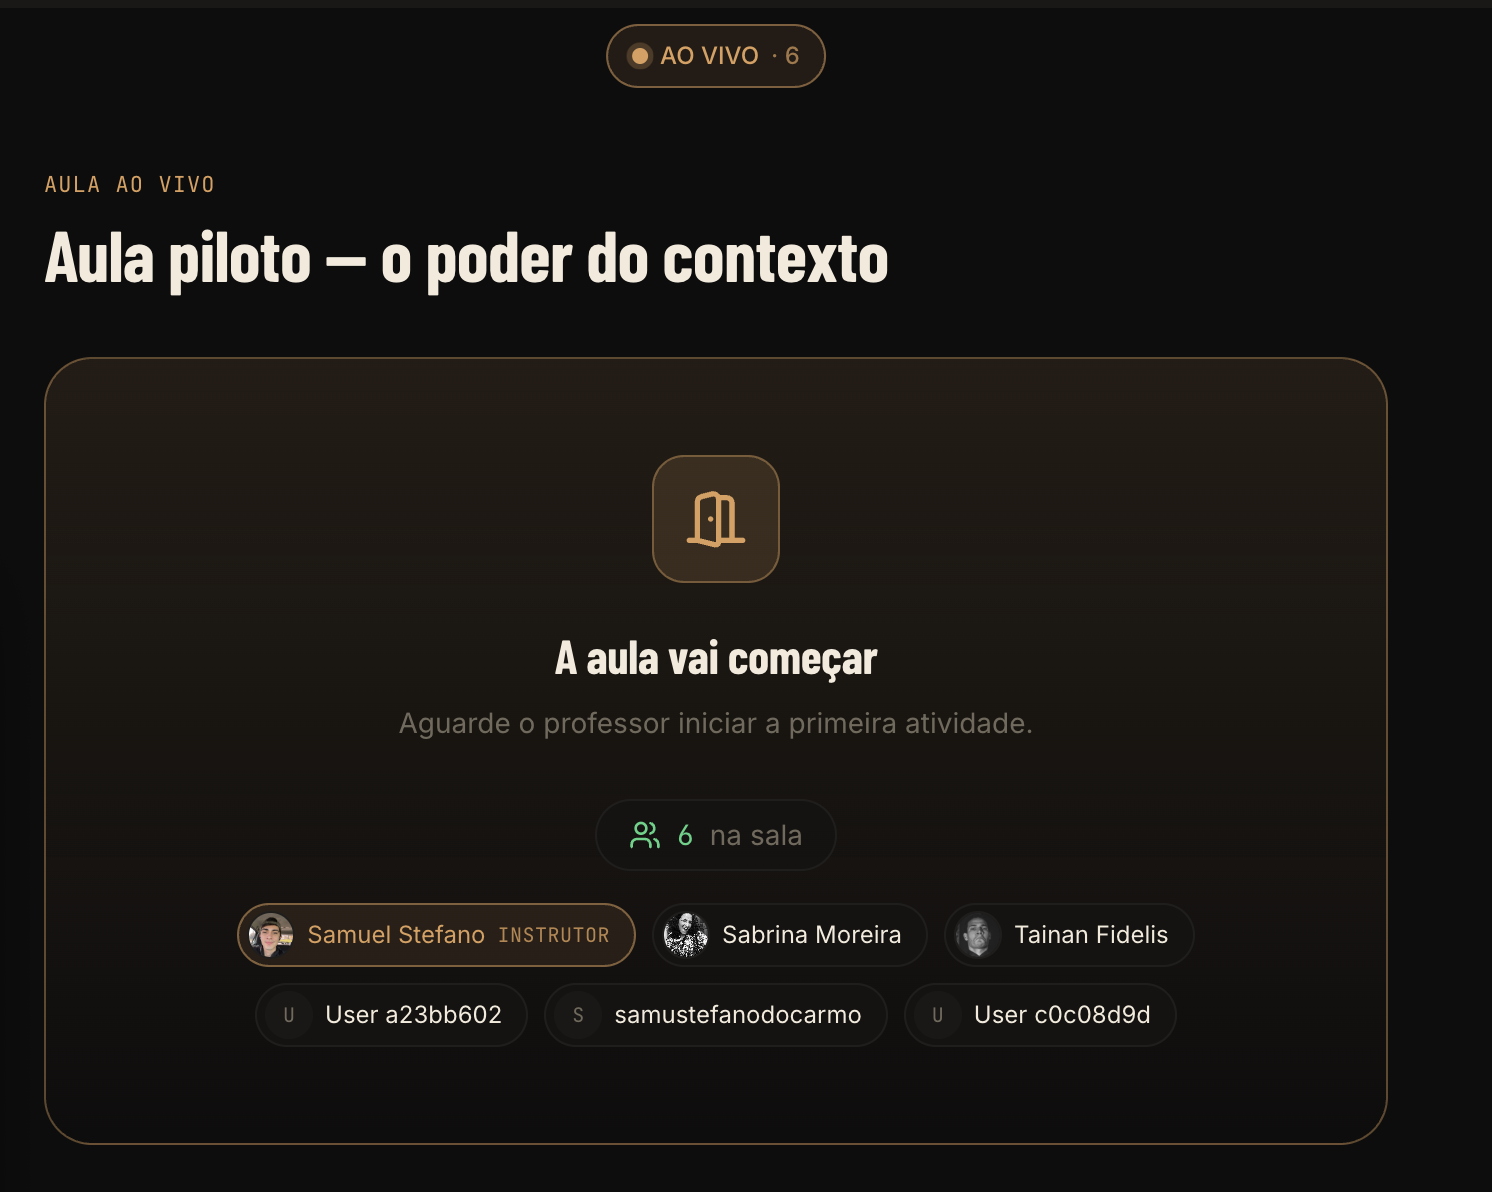
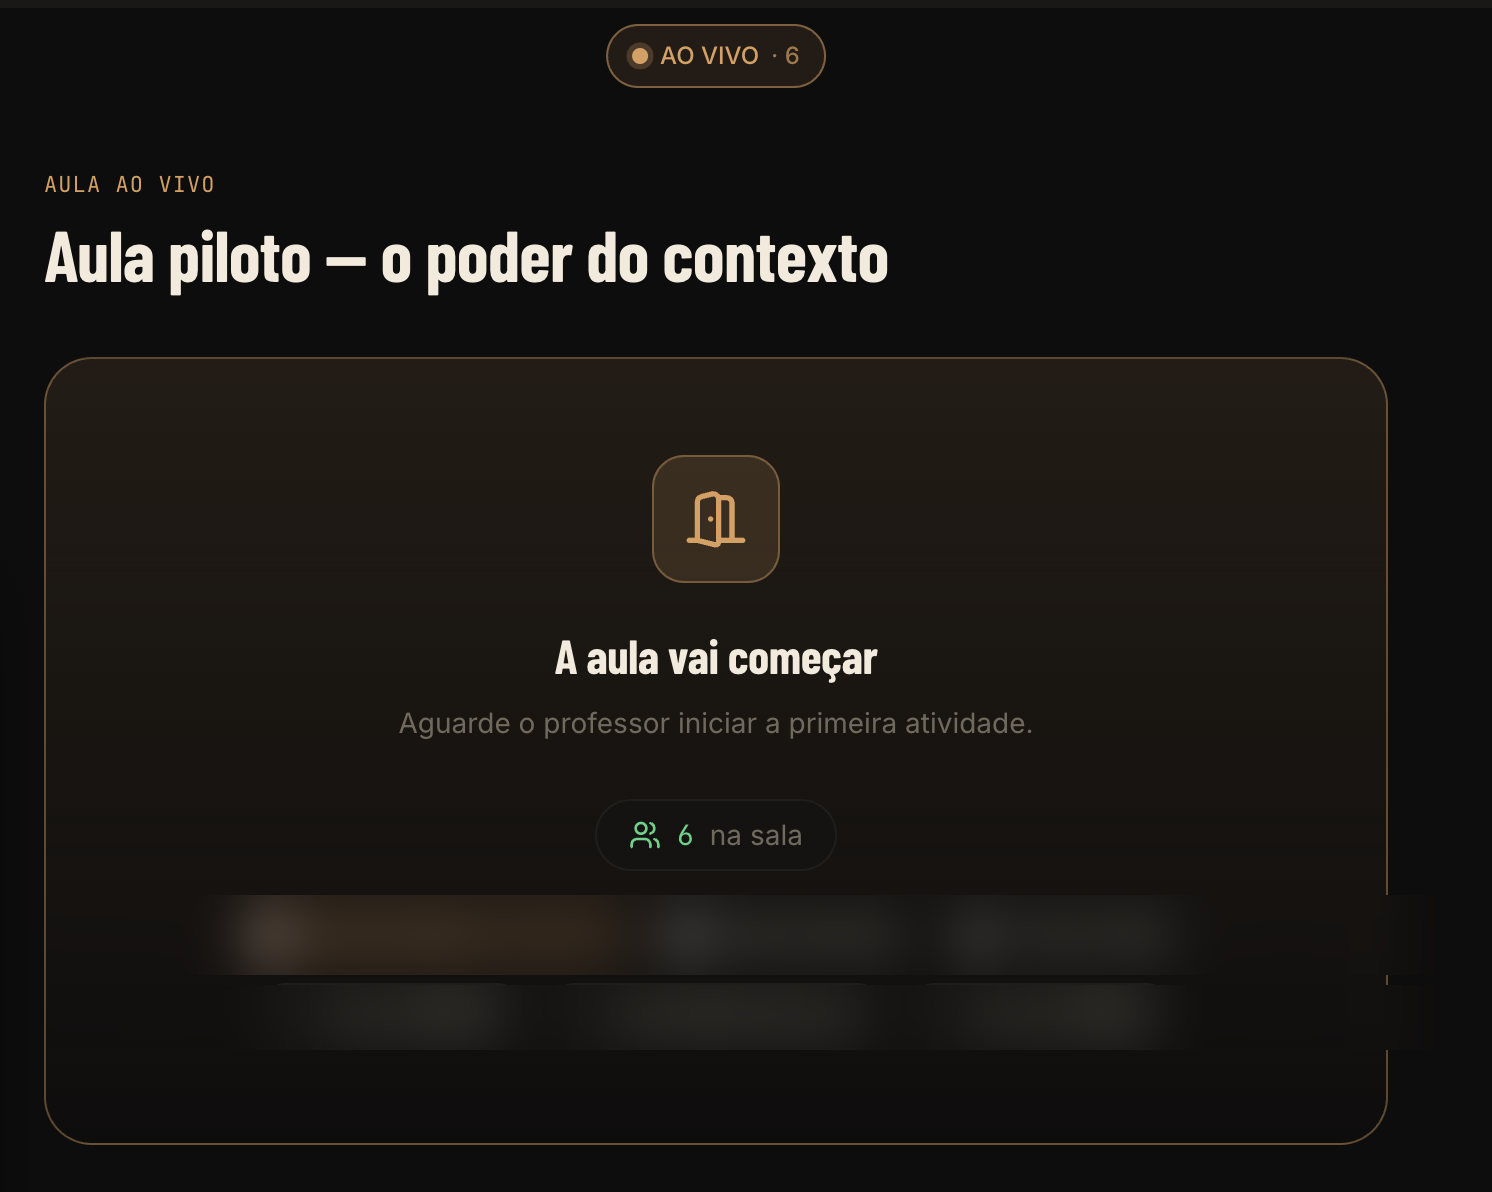
feat: borra nomes de participantes no ITERA e adiciona capturas da landing, docs e login

diff --git a/src/lib/mockProjects.ts b/src/lib/mockProjects.ts
@@ -50,11 +50,38 @@ export const mockProjects: Project[] = [
         description: 'Sala de espera antes do professor iniciar, com a lista de quem já entrou atualizada por presence',
         order_index: 2,
         project_images: [{ id: '11-s2-i1', image_url: '/projects/itera/recepcao.png', order_index: 1 }]
+      },
+      {
+        id: '11-s3',
+        folder_name: 'landing',
+        display_name: 'Landing',
+        description: 'Página de apresentação da plataforma: hero com preview do player ao vivo, seção de cursos e proposta de valor para membros DFL e assinantes',
+        order_index: 3,
+        project_images: [{ id: '11-s3-i1', image_url: '/projects/itera/landing.png', order_index: 1 }]
+      },
+      {
+        id: '11-s4',
+        folder_name: 'docs',
+        display_name: 'Documentação',
+        description: 'Site de documentação do itera-mcp: descreve o servidor MCP Streamable-HTTP com 21 ferramentas de autoria que escrevem Program → Unit → Lesson → Activity sob RLS do autor',
+        order_index: 4,
+        project_images: [{ id: '11-s4-i1', image_url: '/projects/itera/docs.png', order_index: 1 }]
+      },
+      {
+        id: '11-s5',
+        folder_name: 'login',
+        display_name: 'Acesso ao app',
+        description: 'Tela de login do player do aluno: entrada por e-mail, senha ou link mágico — sem barreira de senha na primeira aula — e SSO federado via conta DFL',
+        order_index: 5,
+        project_images: [{ id: '11-s5-i1', image_url: '/projects/itera/login.png', order_index: 1 }]
       }
     ],
     image_categories: {
       'live': ['/projects/itera/aula-ao-vivo.png'],
-      'hero': ['/projects/itera/recepcao.png']
+      'hero': ['/projects/itera/recepcao.png'],
+      'landing': ['/projects/itera/landing.png'],
+      'docs': ['/projects/itera/docs.png'],
+      'login': ['/projects/itera/login.png']
     }
   },
   {
